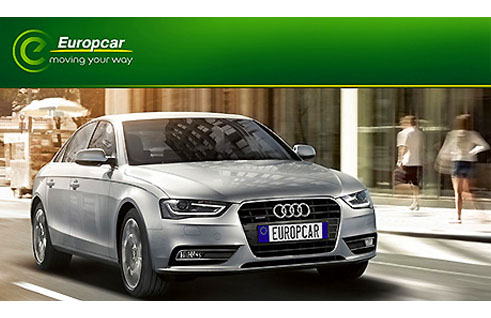
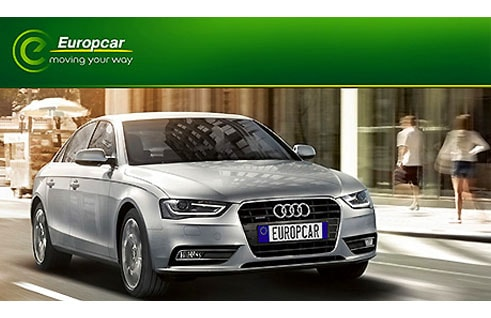
pictures optimization

diff --git a/ru/benGurion.php b/ru/benGurion.php
@@ -32,7 +32,7 @@
 
 <div class="col-md-5 bann-info1 wow fadeInLeft animated" data-wow-delay=".5s">
 <!--		<i class="fa fa-columns"></i>-->
-<i> <img src="../images/europcar_W.jpg" alt="прокат аренда авто израиль" class="img-responsive" /></i>
+<i> <img src="../images/europcar_560x162.jpg" alt="прокат аренда авто израиль" class="img-responsive" /></i>
 		<!--<h2 class="text-left" style="color:red;">БРОНИРОВАНИЕ АВТОМОБИЛЯ В ИЗРАИЛЕ ЗА ОДИН ШАГ</h2>-->
                 
                     
@@ -75,16 +75,13 @@
 
 
 <hr/>
-<img src="../images/catW.jpg" width="287" height="164" alt="машина прокат, машина прокат Израиле, аренда машины Израиль, Аэропорт Бен Гурион" style="text-align: right; " class="img-responsive">
 Всем деловым и ценящим свое время людям необходим соответствующий их статусу комфортабельный транспорт, но не все компании имеют соответствующий автопарк автомобилей делового класса и класса люкс. 
 У нас в <strong>отделении по прокату аренде машин в аэропорту Бен Гурион</strong> вы всегда можете арендовать авто бизнес-класса на наиболее выгодных условиях, чтобы подчеркнуть свой высокий статус без лишних затрат и хлопот.
 
 
-<hr><img src="../images/catZ.jpg" width="287" height="164" alt="машина прокат, машина прокат Израиле, аренда машины Израиль, Аэропорт Бен Гурион" style="text-align: right; " class="img-responsive">
-Путешествуете большой семьей? Вас больше пяти человек и вам нужна более просторная машина? В нашем <strong>отделении по прокату аренде машин в аэропорту Бен Гурион</strong> вы всегда можете заказать минивэны и небольшие микроавтобусы.
+<hr>Путешествуете большой семьей? Вас больше пяти человек и вам нужна более просторная машина? В нашем <strong>отделении по прокату аренде машин в аэропорту Бен Гурион</strong> вы всегда можете заказать минивэны и небольшие микроавтобусы.
 
 <br>
-<br><img src="../images/catC.jpg" width="287" height="164" alt="машина прокат, машина прокат Израиле, аренда машины Израиль, Аэропорт Бен Гурион" style="text-align: right; " class="img-responsive">
 Нуждаетесь в небольшой и недорогой машине чтобы с комфортом попутешествовать по Израилю? У нас <strong>в отделении по прокату аренде машин в аэропорту Бен Гурион</strong> вы всегда можете арендовать авто эконом-класса на наиболее выгодных условиях без лишних затрат и хлопот. 
 Подходит для молодых водителей начиная с 21 года и водительским стажем год+. 
 
